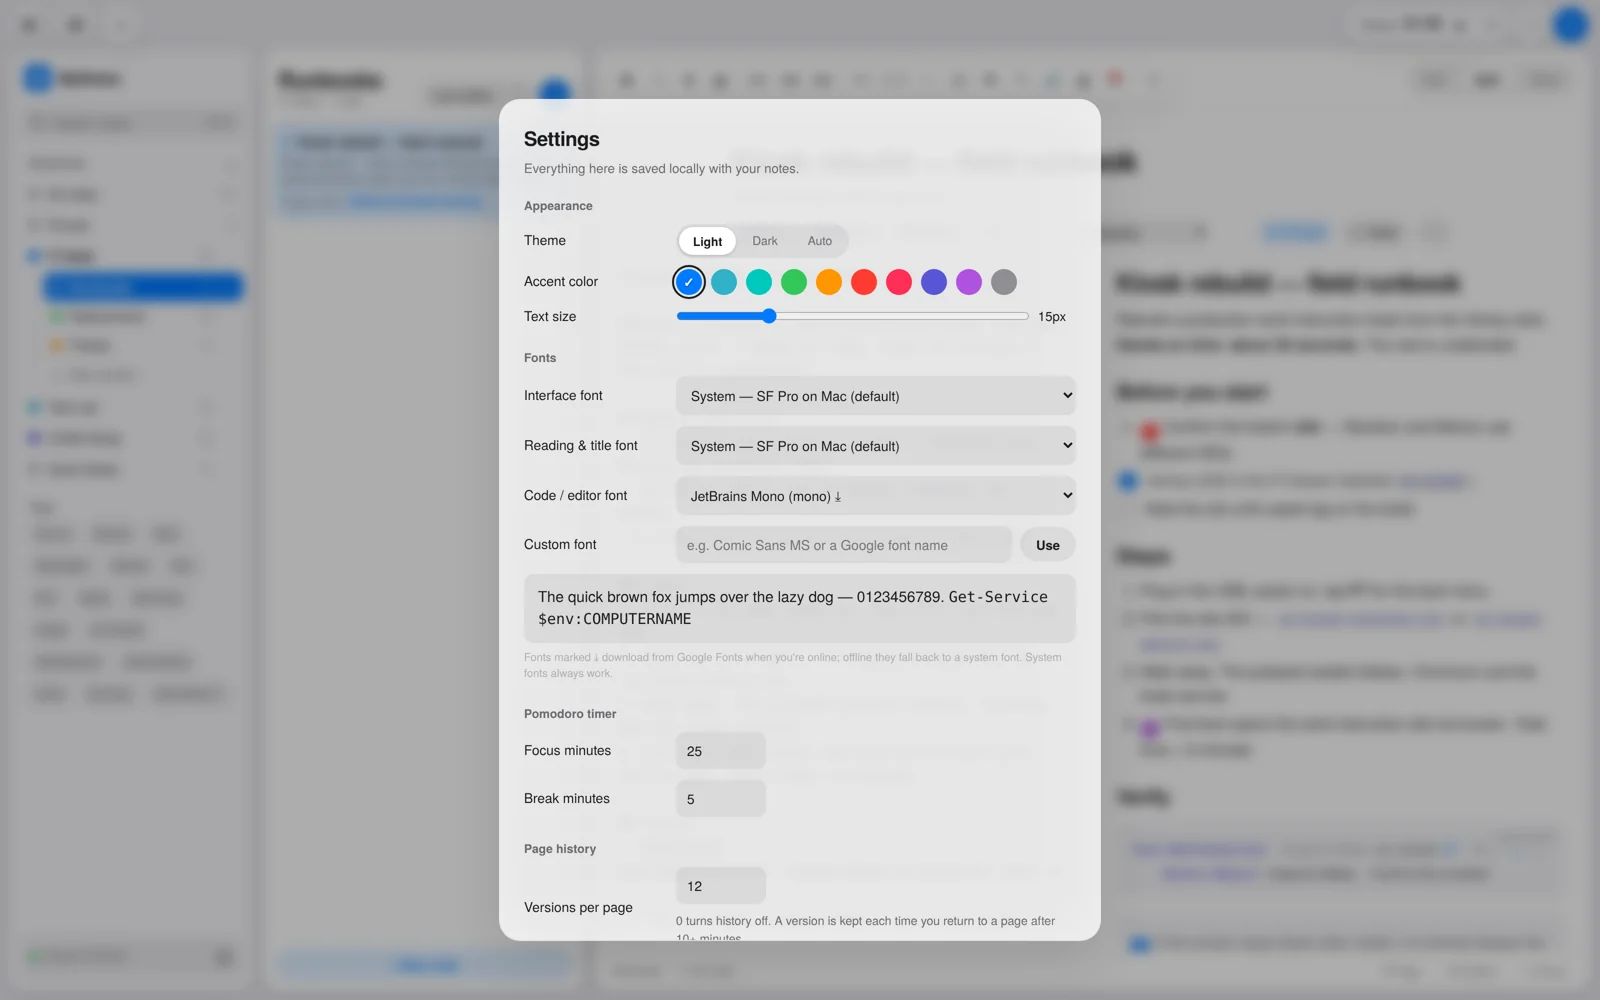
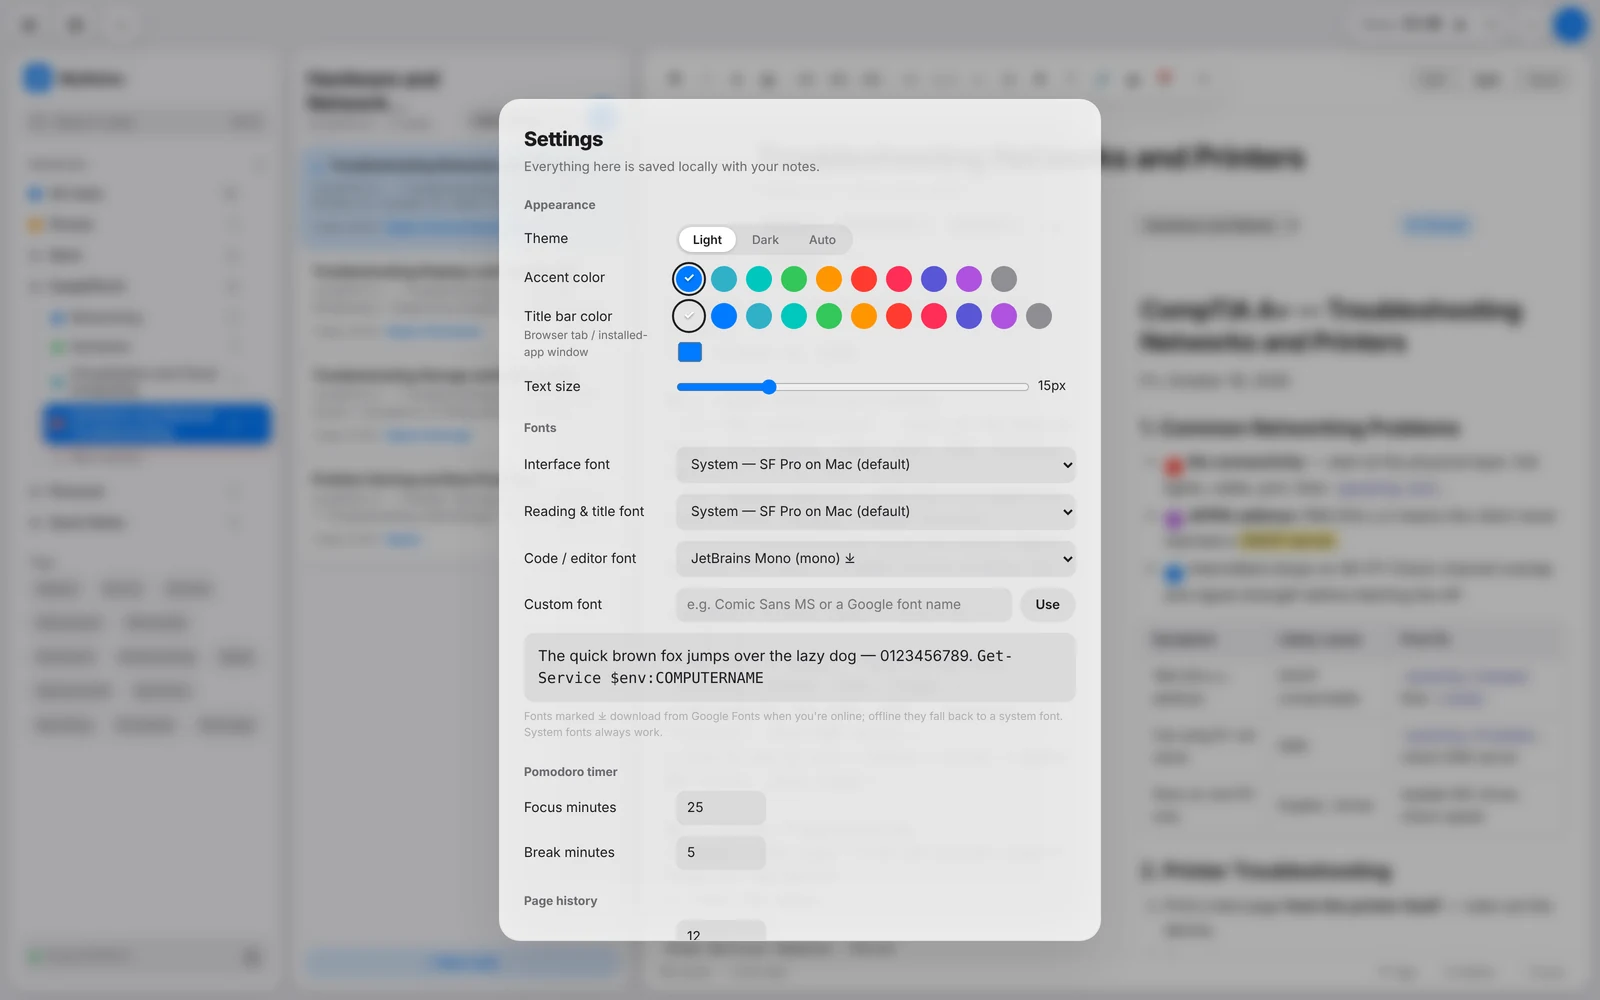
MyNotes card: five new screenshots from the updated app

diff --git a/projects.html b/projects.html
@@ -203,19 +203,20 @@
       </article>
       <article class="card" data-group="personal">
         <figure class="card-shot card-gallery">
-          <img src="images/mynotes.webp" alt="MyNotes: notebook sidebar with colored sections, note list, and a Markdown note in split edit/preview view" loading="lazy" onerror="this.closest('.card-shot').remove()">
+          <img src="images/mynotes.webp" alt="MyNotes: notebook sidebar with colored sections, a note list of glass cards, and a CompTIA A+ study note in split edit/preview view with a comparison table and a PowerShell code block" loading="lazy" onerror="this.closest('.card-shot').remove()">
           <figcaption>Split edit / preview</figcaption>
           <div class="gallery-thumbs" role="group" aria-label="MyNotes views">
-            <button type="button" aria-pressed="true" data-label="Split edit / preview" data-alt="MyNotes: notebook sidebar with colored sections, note list, and a Markdown note in split edit/preview view"><img src="images/mynotes.webp" alt="" loading="lazy"></button>
-            <button type="button" aria-pressed="false" data-label="Read view" data-alt="MyNotes read view: a rendered runbook with paragraph tags, checklists, a PowerShell code block and a callout"><img src="images/mynotes-read.webp" alt="" loading="lazy"></button>
-            <button type="button" aria-pressed="false" data-label="Find Tags" data-alt="MyNotes Find Tags panel listing every tagged line across all notes, grouped by tag type"><img src="images/mynotes-tags.webp" alt="" loading="lazy"></button>
-            <button type="button" aria-pressed="false" data-label="Settings" data-alt="MyNotes settings: theme, accent color, text size, interface and reading fonts, Pomodoro timer and page history options"><img src="images/mynotes-settings.webp" alt="" loading="lazy"></button>
+            <button type="button" aria-pressed="true" data-label="Split edit / preview" data-alt="MyNotes: notebook sidebar with colored sections, a note list of glass cards, and a CompTIA A+ study note in split edit/preview view with a comparison table and a PowerShell code block"><img src="images/mynotes.webp" alt="" loading="lazy"></button>
+            <button type="button" aria-pressed="false" data-label="Read view" data-alt="MyNotes read view: the rendered study note with paragraph tags, a highlighted exam fact, a symptom-to-fix table and wrapped PowerShell code"><img src="images/mynotes-read.webp" alt="" loading="lazy"></button>
+            <button type="button" aria-pressed="false" data-label="Quick delete & note menu" data-alt="MyNotes note list: a trash button on the hovered note and the right-click menu with Open, Pin, Rename, Duplicate and Delete"><img src="images/mynotes-menu.webp" alt="" loading="lazy"></button>
+            <button type="button" aria-pressed="false" data-label="Find Tags" data-alt="MyNotes Find Tags panel listing every tagged line and open checklist item across all notes, grouped by tag type"><img src="images/mynotes-tags.webp" alt="" loading="lazy"></button>
+            <button type="button" aria-pressed="false" data-label="Settings" data-alt="MyNotes settings: theme, accent color, title bar color, text size, interface and reading fonts, Pomodoro timer and page history"><img src="images/mynotes-settings.webp" alt="" loading="lazy"></button>
           </div>
         </figure>
         <div class="card-body">
           <div class="card-kicker"><span>personal build</span><span>shipped</span></div>
           <h3>MyNotes — Markdown Notes, Synced Everywhere</h3>
-          <p>Started as a self-contained notes app in one HTML file, now a live site with a Node/Express backend and Postgres, so every device sees the same notebook. Organized like OneNote — notebooks › sections › pages › subpages, color-coded from the sidebar — with page history you can restore, Quick Notes, paragraph tags with a Find Tags summary, wikilinks, a split edit/preview pane, PowerShell syntax highlighting, image paste, and a focus timer. IndexedDB keeps an offline copy: edits save on-device when the server is unreachable and sync when the connection returns. Every dialog is built in-app, login is rate-limited, and the whole stack deploys from one Render blueprint.</p>
+          <p>Started as a self-contained notes app in one HTML file, now a live site with a Node/Express backend and Postgres, so every device sees the same notebook. Organized like OneNote — notebooks › sections › pages › subpages, color-coded from the sidebar — with page history you can restore, Quick Notes, paragraph tags with a Find Tags summary, wikilinks, a split edit/preview pane, PowerShell syntax highlighting, image paste, and a focus timer. Columns resize by dragging, notes delete from a hover button or right-click menu, and the accent and title-bar colors are yours to pick. IndexedDB keeps an offline copy: edits save on-device when the server is unreachable and sync when the connection returns. Every dialog is built in-app, login is rate-limited, and the whole stack deploys from one Render blueprint.</p>
           <div class="chips"><span class="chip hi">Node / Express</span><span class="chip">Postgres</span><span class="chip">IndexedDB</span><span class="chip">Markdown</span><span class="chip">Render</span></div>
         </div>
       </article>

diff --git a/CLAUDE.md b/CLAUDE.md
@@ -123,6 +123,13 @@ branch `main`, root folder. **Live:** https://xotwod197.github.io/Ramiros_Portfo
 
 ## Changelog (newest first)
 
+### 2026-10-16 (work PC via Claude)
+- MyNotes card: five new screenshots from the updated app (glass note cards, resizable columns,
+  quick delete / right-click menu, Find Tags, Settings with the title-bar colour row). Shot from a
+  demo notebook with generic study/IT content — no internal hostnames, no retired projects.
+  `mynotes-menu.webp` added; the four existing files replaced in place. Card text gained one
+  sentence on resizing, quick delete and colours. No CSS change, so no `?v=` bump.
+
 ### 2026-10-16, night (home PC via Claude, Projects)
 - Text looked cut off: hyphenated words split across lines ("56-" / "port", "auto-" / "start",
   4–8 per page). A small script on both pages wraps every hyphenated word in `<span class="nw">`
